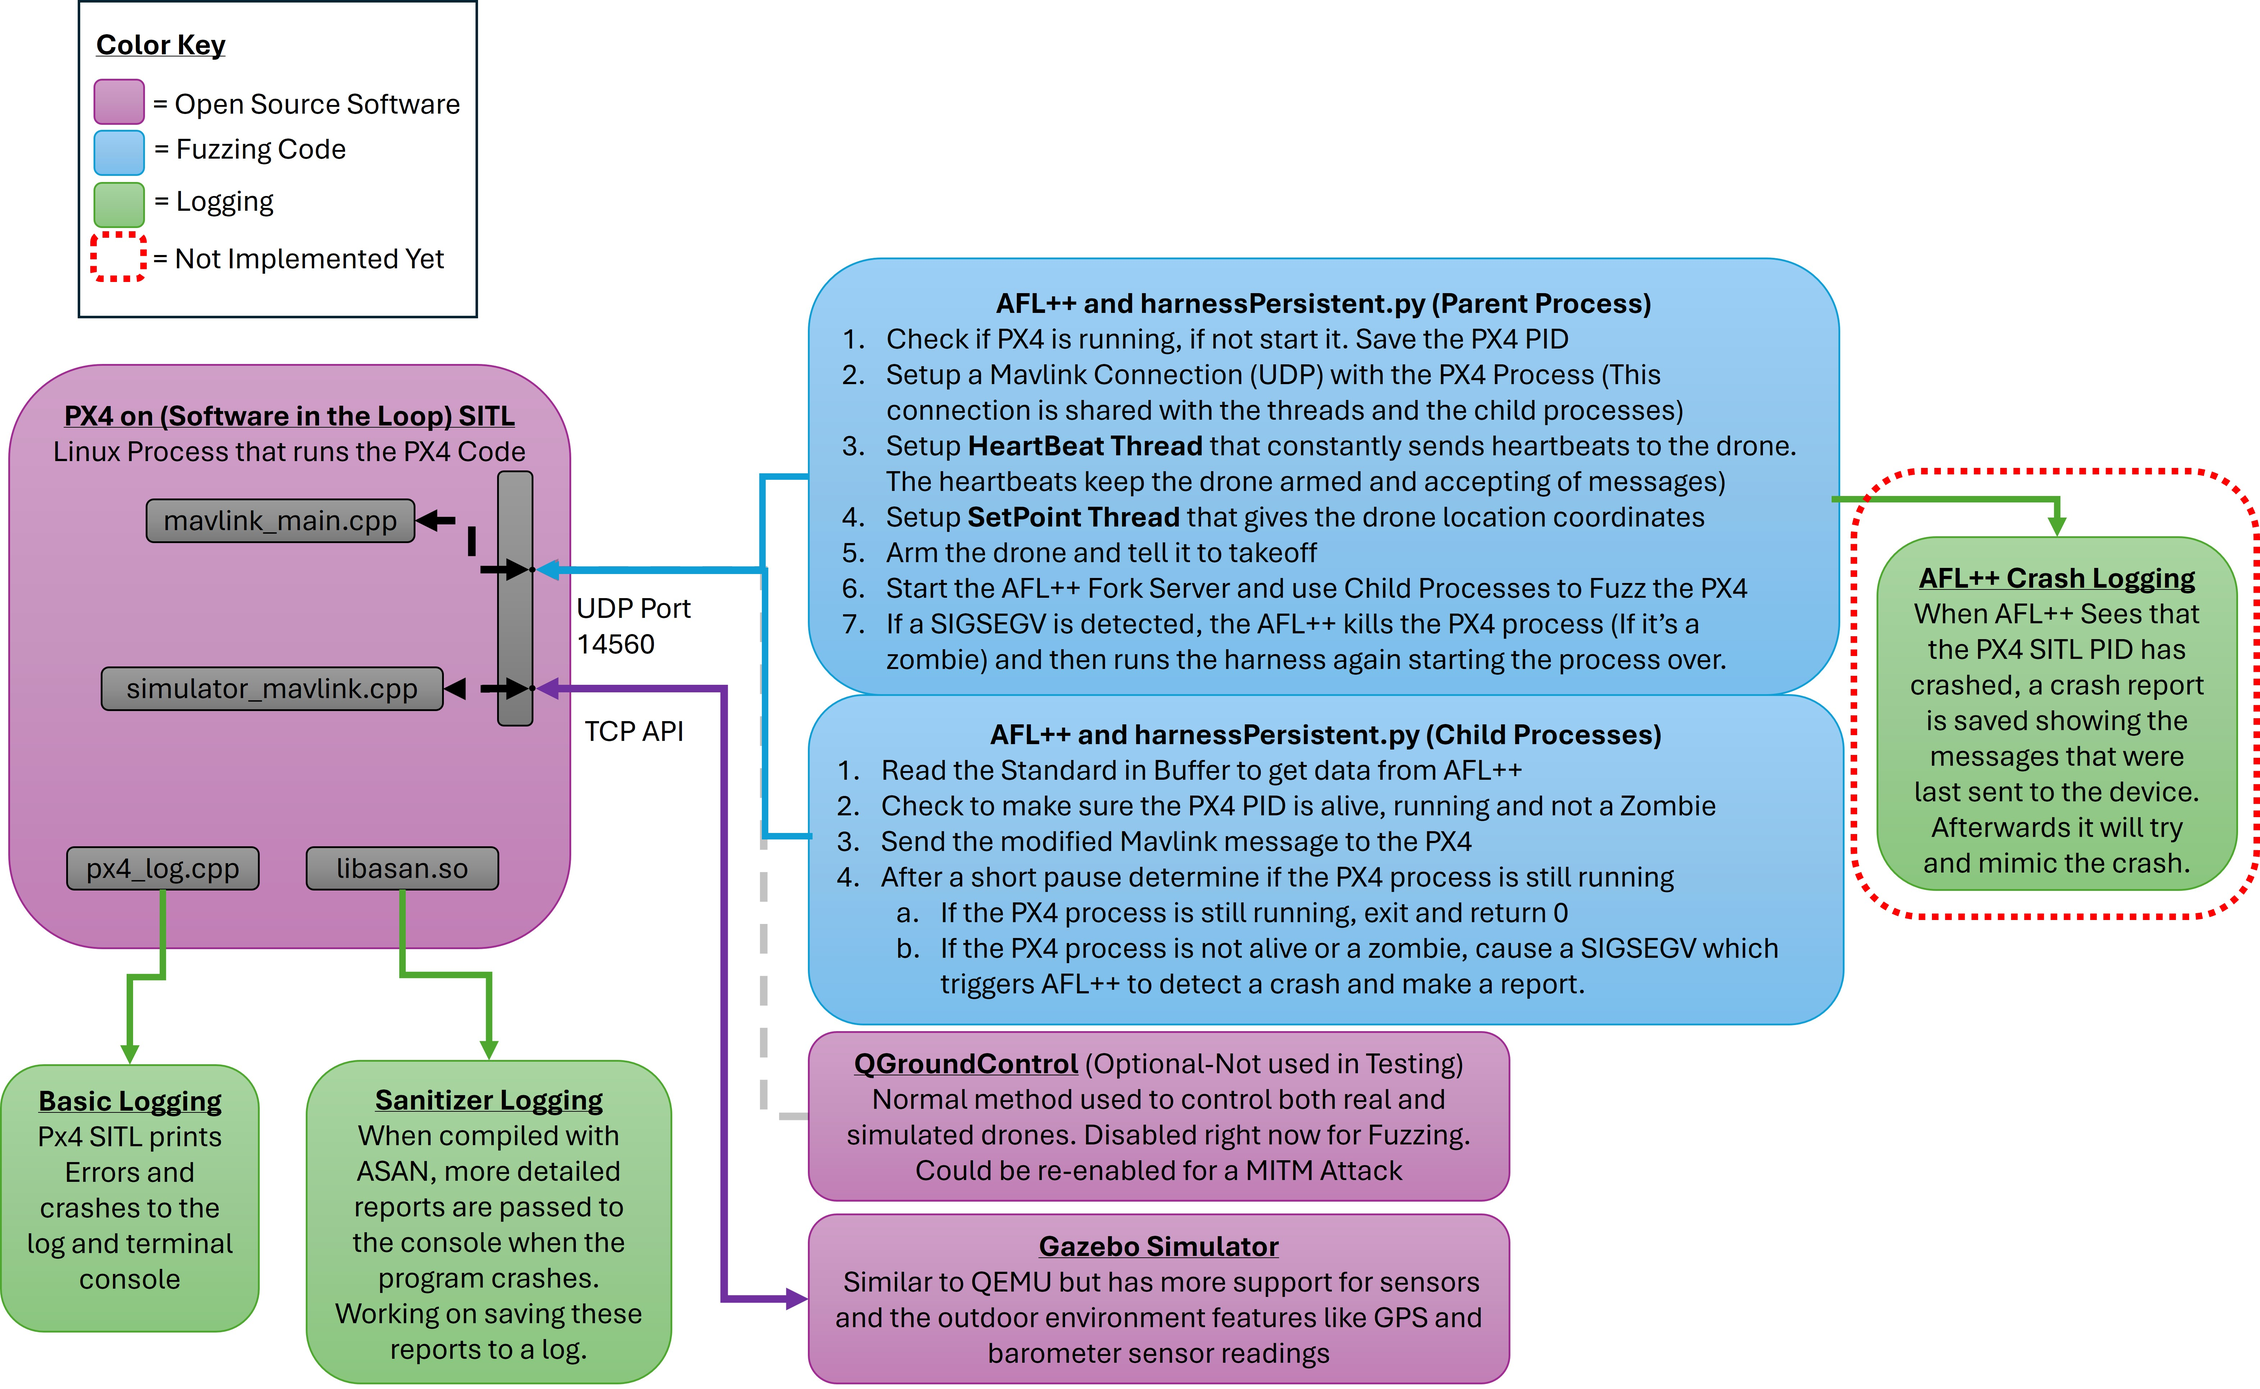
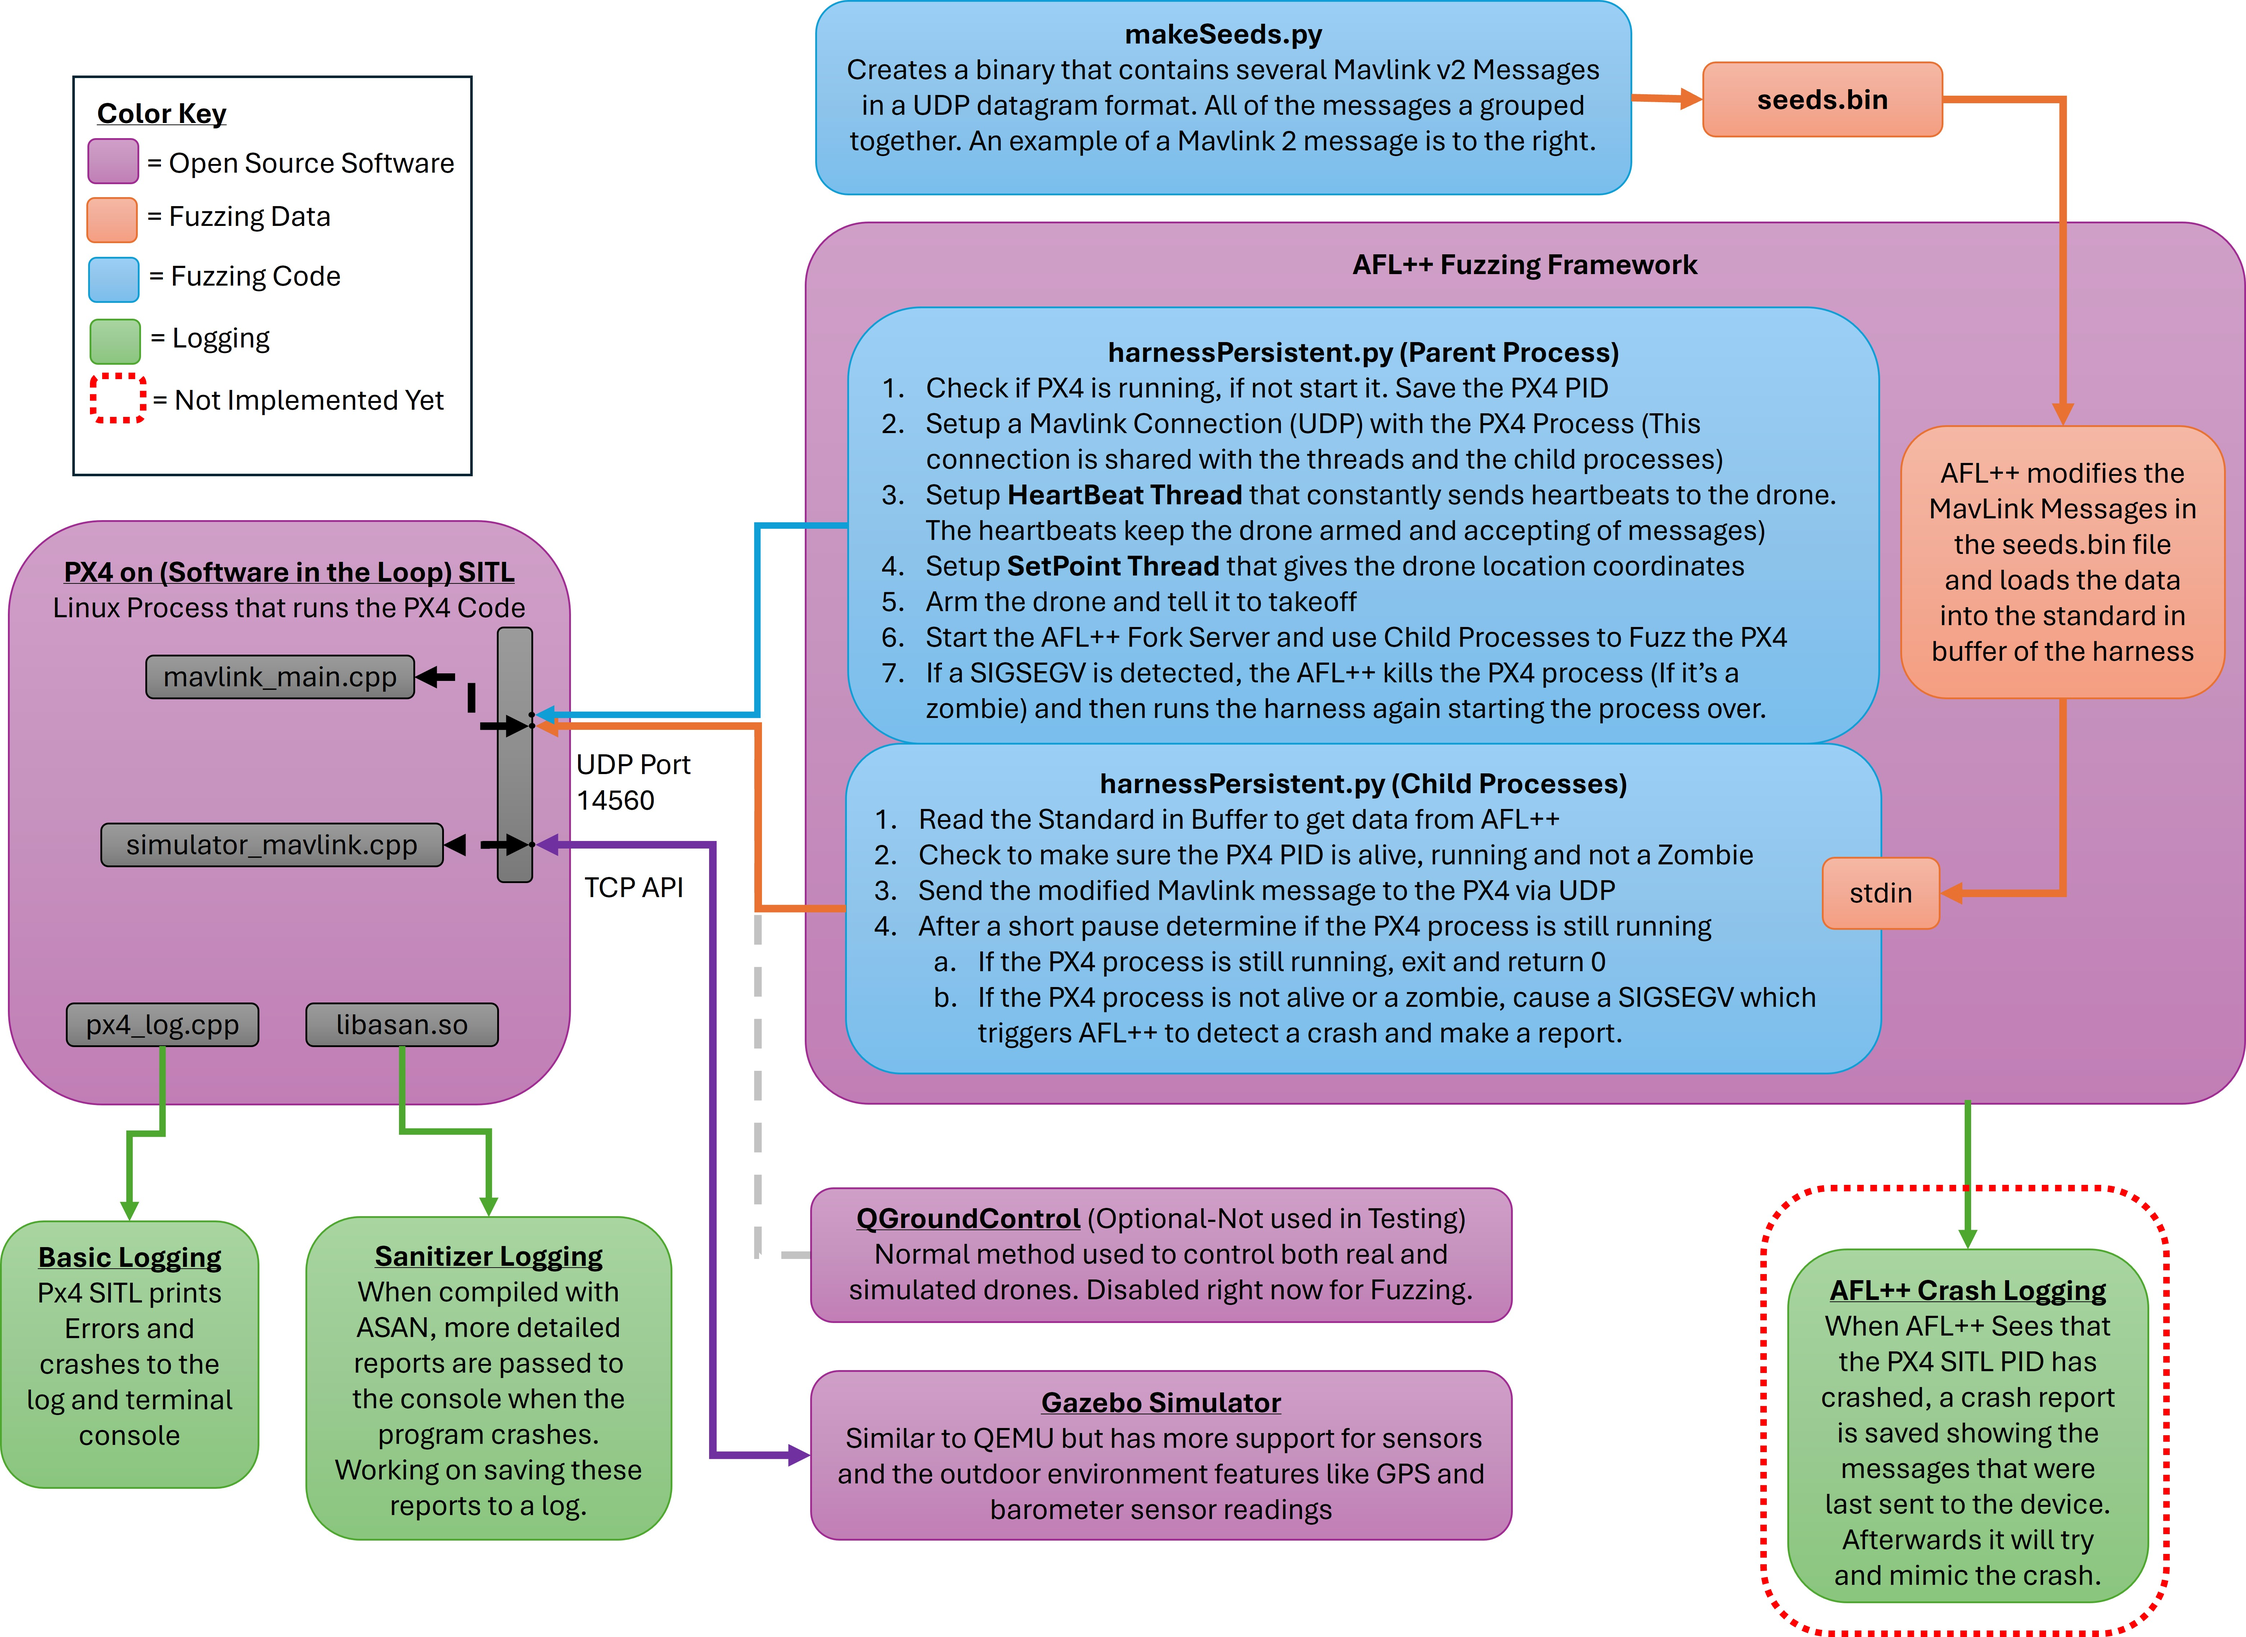
modifying the main image

diff --git a/README.md b/README.md
@@ -32,7 +32,7 @@ This project requires:
 - **AFL++** or **python-afl**
 - **Git**
 - **PX4-Autopilot** source code
-- **Gazebo Garden / Gazebo Classic** depending on the build configuration
+- **Gazebo Garden / Gazebo Classic**
 - **QGroundControl (optional)** for manual MAVLink verification
 
 ### **Hardware Acceleration (Optional)**
@@ -209,8 +209,9 @@ pkill -f gz
 - https://github.com/AFLplusplus/AFLplusplus
 
 ### **MAVLink Messaging**
-- https://docs.px4.io/main/en/mavlink/receiving_messages?utm_source=chatgpt.com
-- https://mavlink.io/en/messages/common.html?utm_source=chatgpt.com
+- https://www.youtube.com/watch?v=iZ-usX1VXRI
+- https://www.youtube.com/watch?v=Ha66uKC-od0
+- https://mavlink.io/en/about/overview.html
 
 ### **MAVLink Security Research**
 - https://arxiv.org/html/2501.18874v2?utm_source=chatgpt.com
